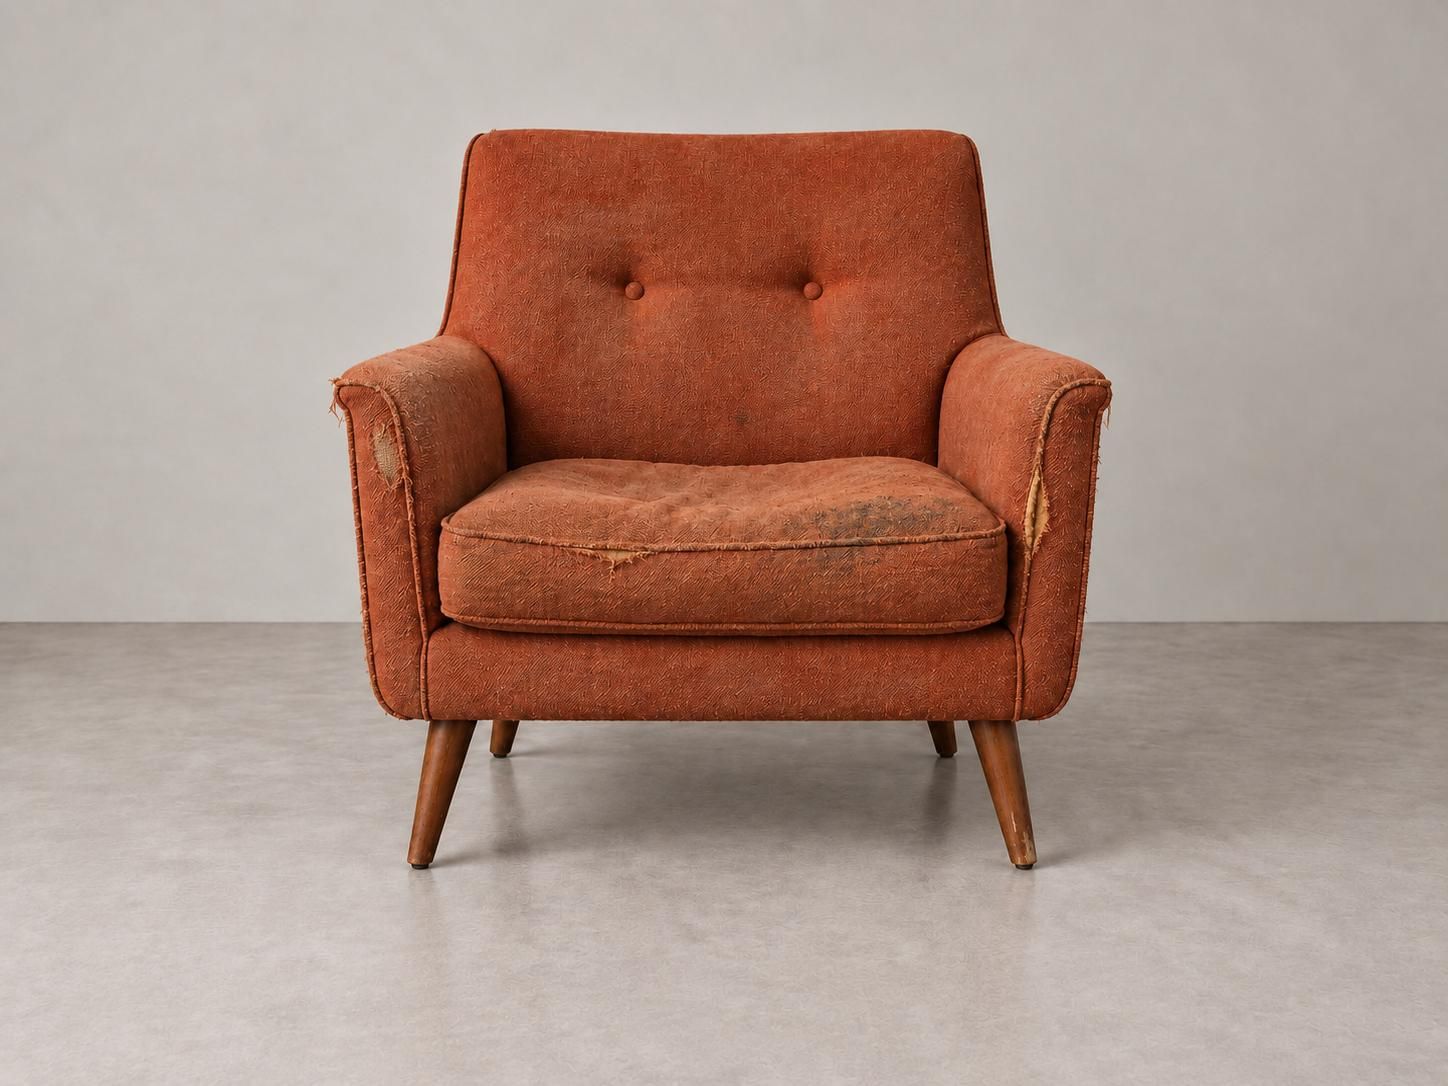
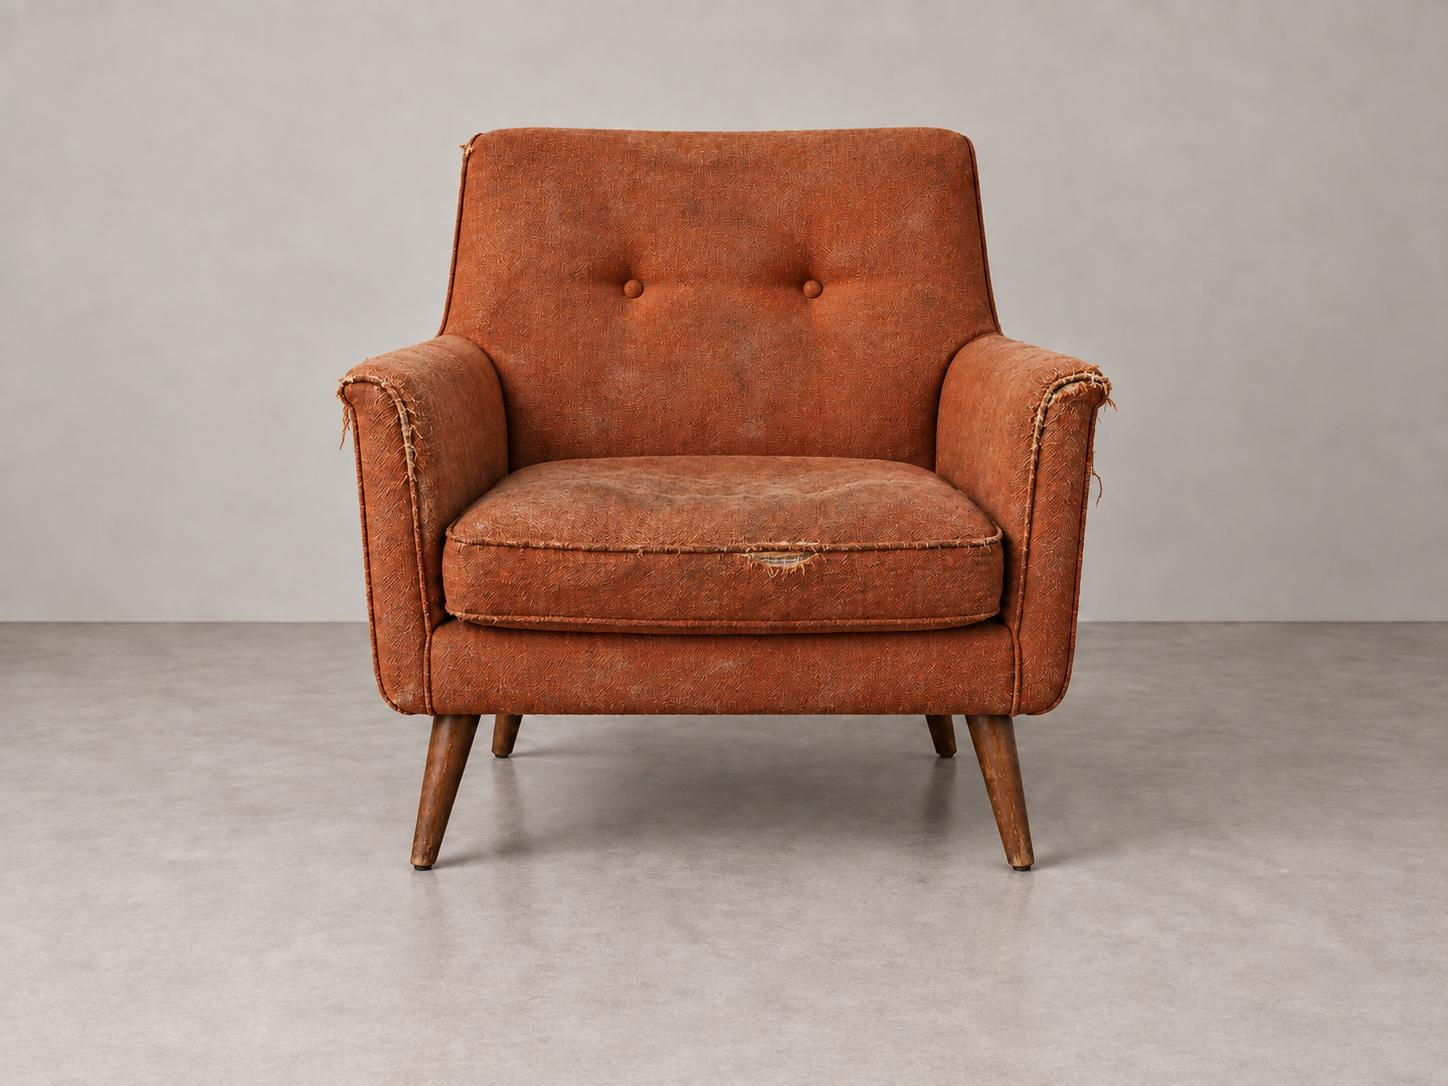
img

Changed region(s): [[0.2175, 0.0912, 0.7769, 0.8204]]

diff --git a/src/components/layout/MobileMenu.tsx b/src/components/layout/MobileMenu.tsx
@@ -178,8 +178,8 @@ export default function MobileMenu({
               Pozovite {site.phone.display}
             </a>
             <Link
-              href="/kontakt#procena"
-              onClick={(event) => navigiraj(event, "/kontakt#procena")}
+              href="/kontakt#forma-procena"
+              onClick={(event) => navigiraj(event, "/kontakt#forma-procena")}
               className="flex min-h-[52px] items-center justify-center border border-mist-3 font-semibold"
             >
               Pošaljite fotografiju

diff --git a/src/components/form/FormaProcena.tsx b/src/components/form/FormaProcena.tsx
@@ -236,7 +236,13 @@ export default function FormaProcena() {
     "placeholder:text-mist-3 focus:border-bakar focus:outline-none focus-visible:outline-none";
 
   return (
-    <form ref={forma} onSubmit={posalji} noValidate className="grid gap-5">
+    <form
+      id="forma-procena"
+      ref={forma}
+      onSubmit={posalji}
+      noValidate
+      className="scroll-mt-24 lg:scroll-mt-28 grid gap-5"
+    >
       {/* zamka za botove, skrivena od korisnika i čitača ekrana */}
       <input
         type="text"

diff --git a/src/components/layout/Header.tsx b/src/components/layout/Header.tsx
@@ -113,7 +113,7 @@ export default function Header() {
 
           <div className="flex items-center gap-2.5">
             <Link
-              href="/kontakt#procena"
+              href="/kontakt#forma-procena"
               className="hidden min-h-[48px] items-center bg-bakar-dugme px-5 text-[0.9rem] font-semibold text-white transition-colors duration-300 hover:bg-bakar-dugme-hover xl:inline-flex"
             >
               Pošaljite fotografiju

diff --git a/src/components/sections/Zavrsne.tsx b/src/components/sections/Zavrsne.tsx
@@ -14,7 +14,11 @@ import {
 /** Glavna konverzija: slanje fotografija za procenu. */
 export function Procena() {
   return (
-    <Sekcija id="procena" podloga="sumrak">
+    <Sekcija
+      id="procena"
+      podloga="sumrak"
+      className="scroll-mt-24 lg:scroll-mt-28"
+    >
       <div className="sadrzaj">
         <div className="grid gap-12 lg:grid-cols-12 lg:gap-16">
           <div className="lg:col-span-5">
